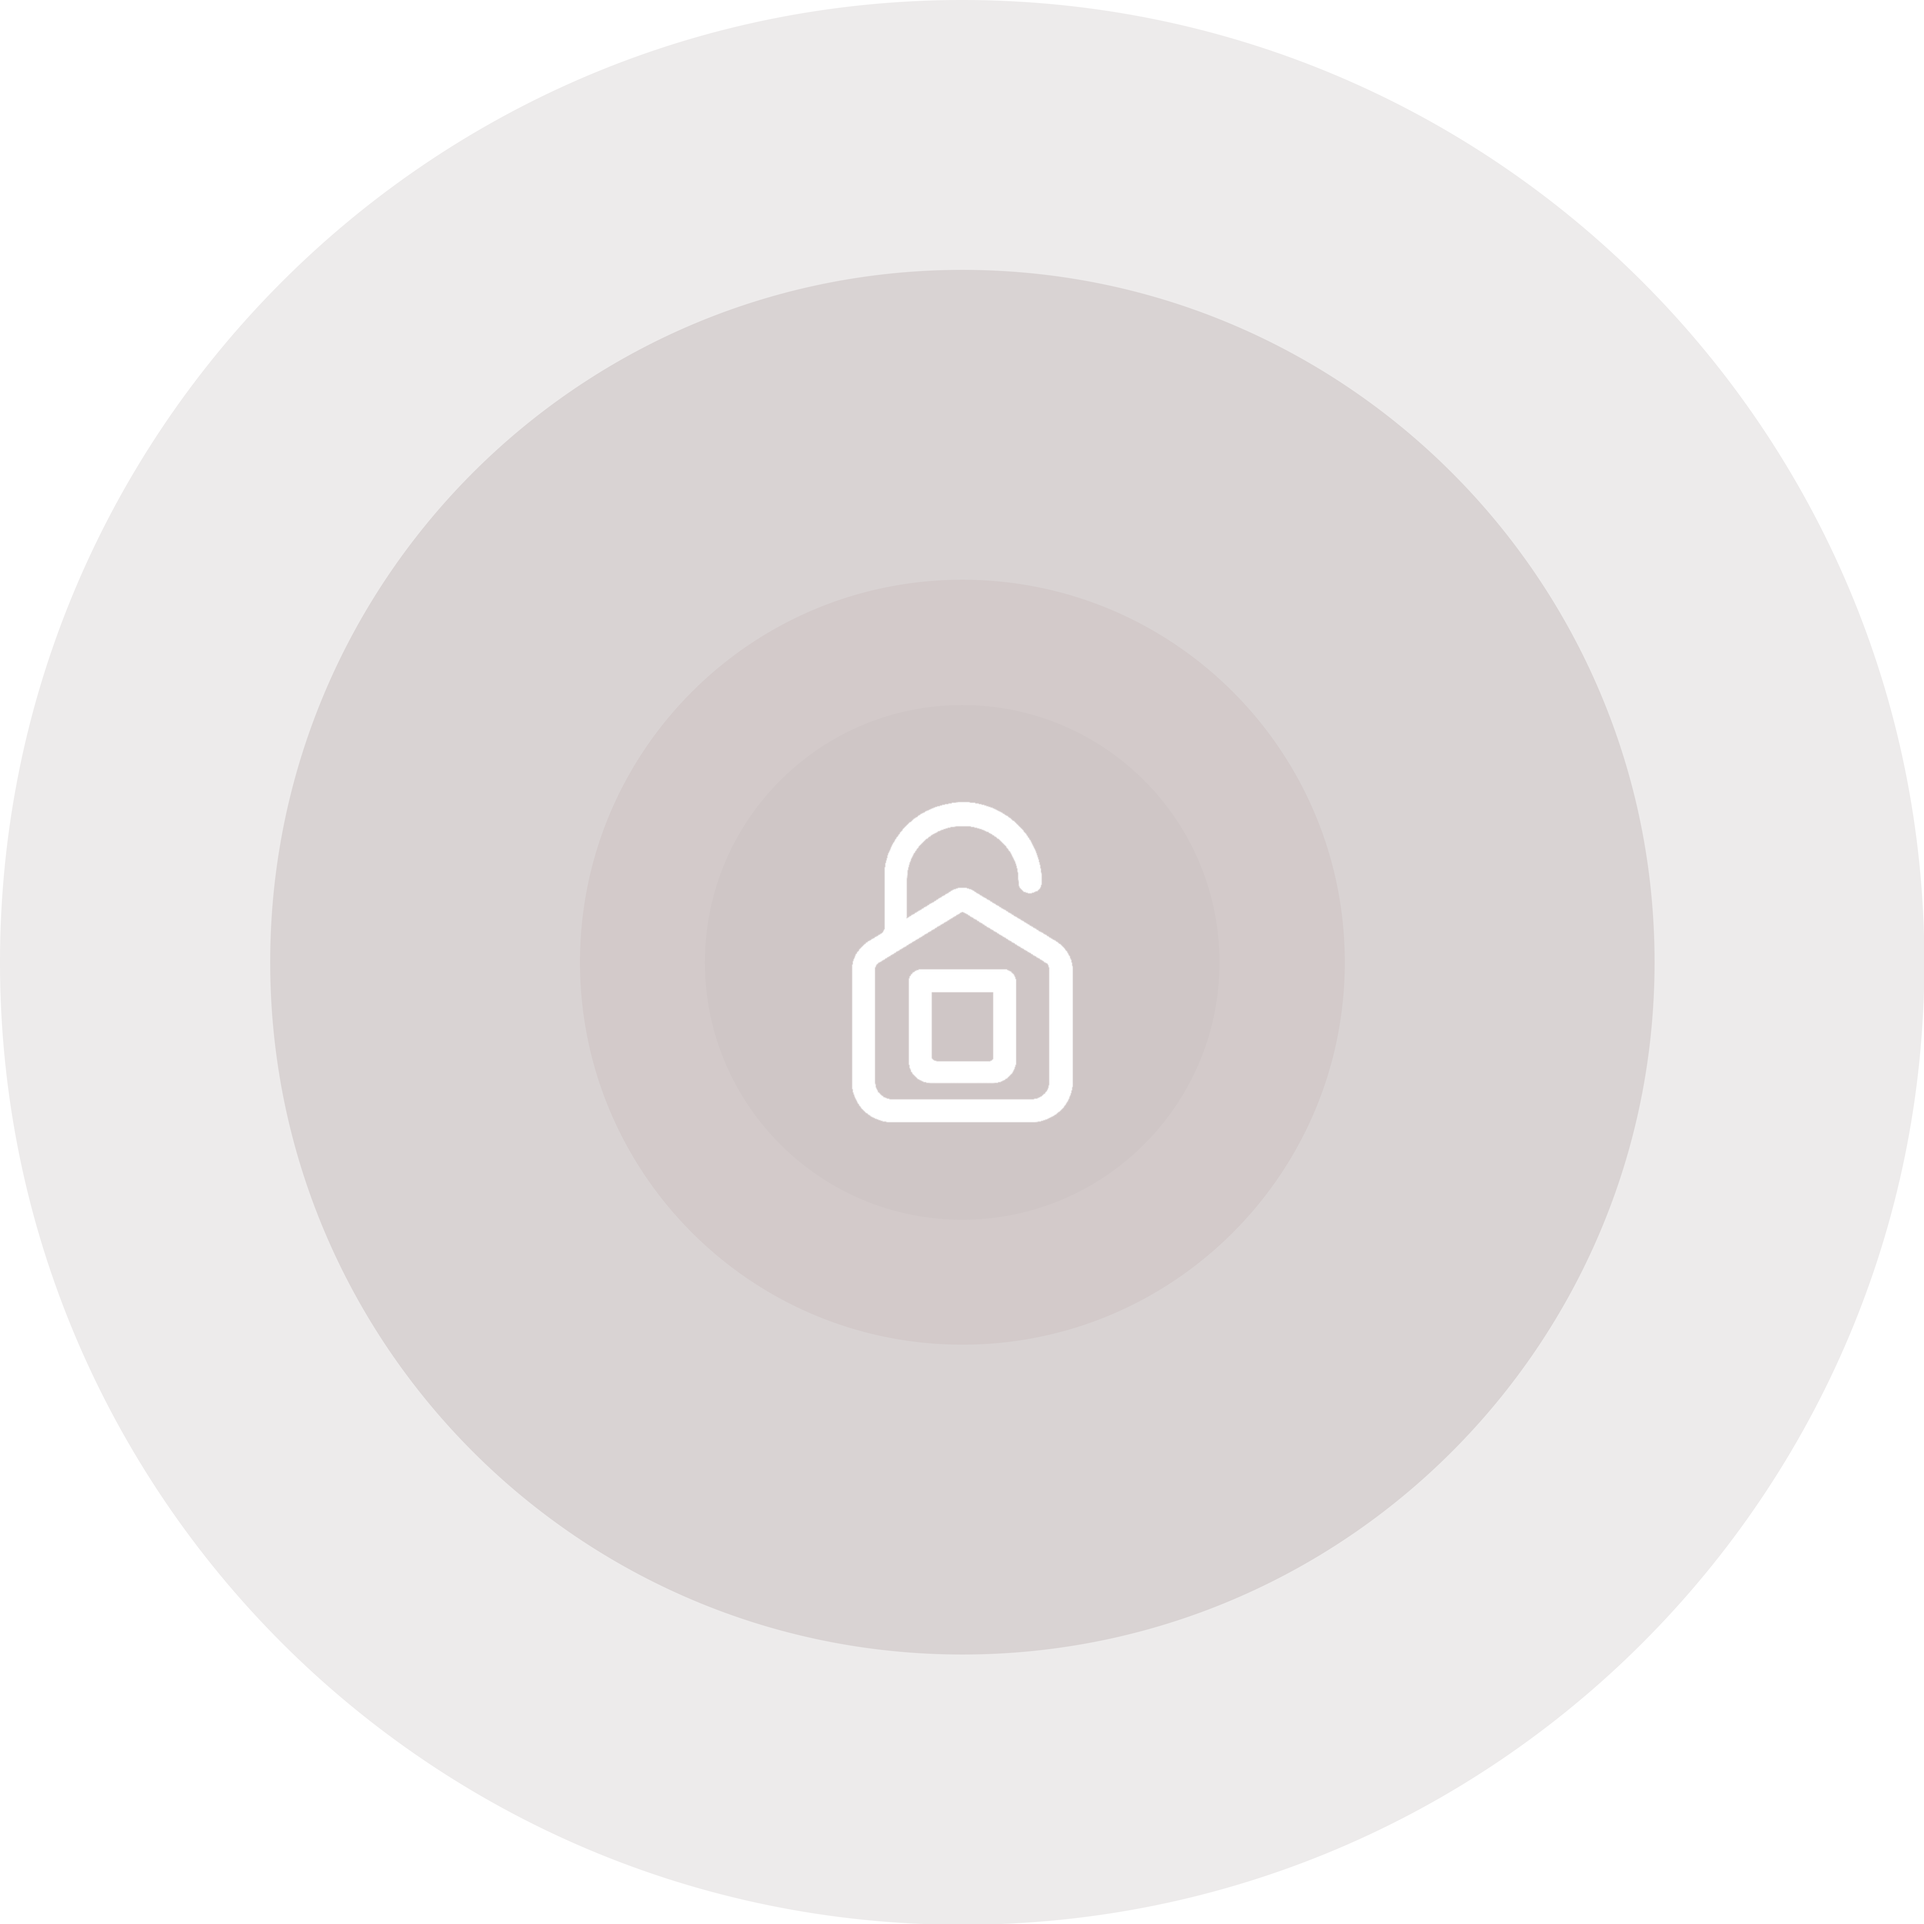
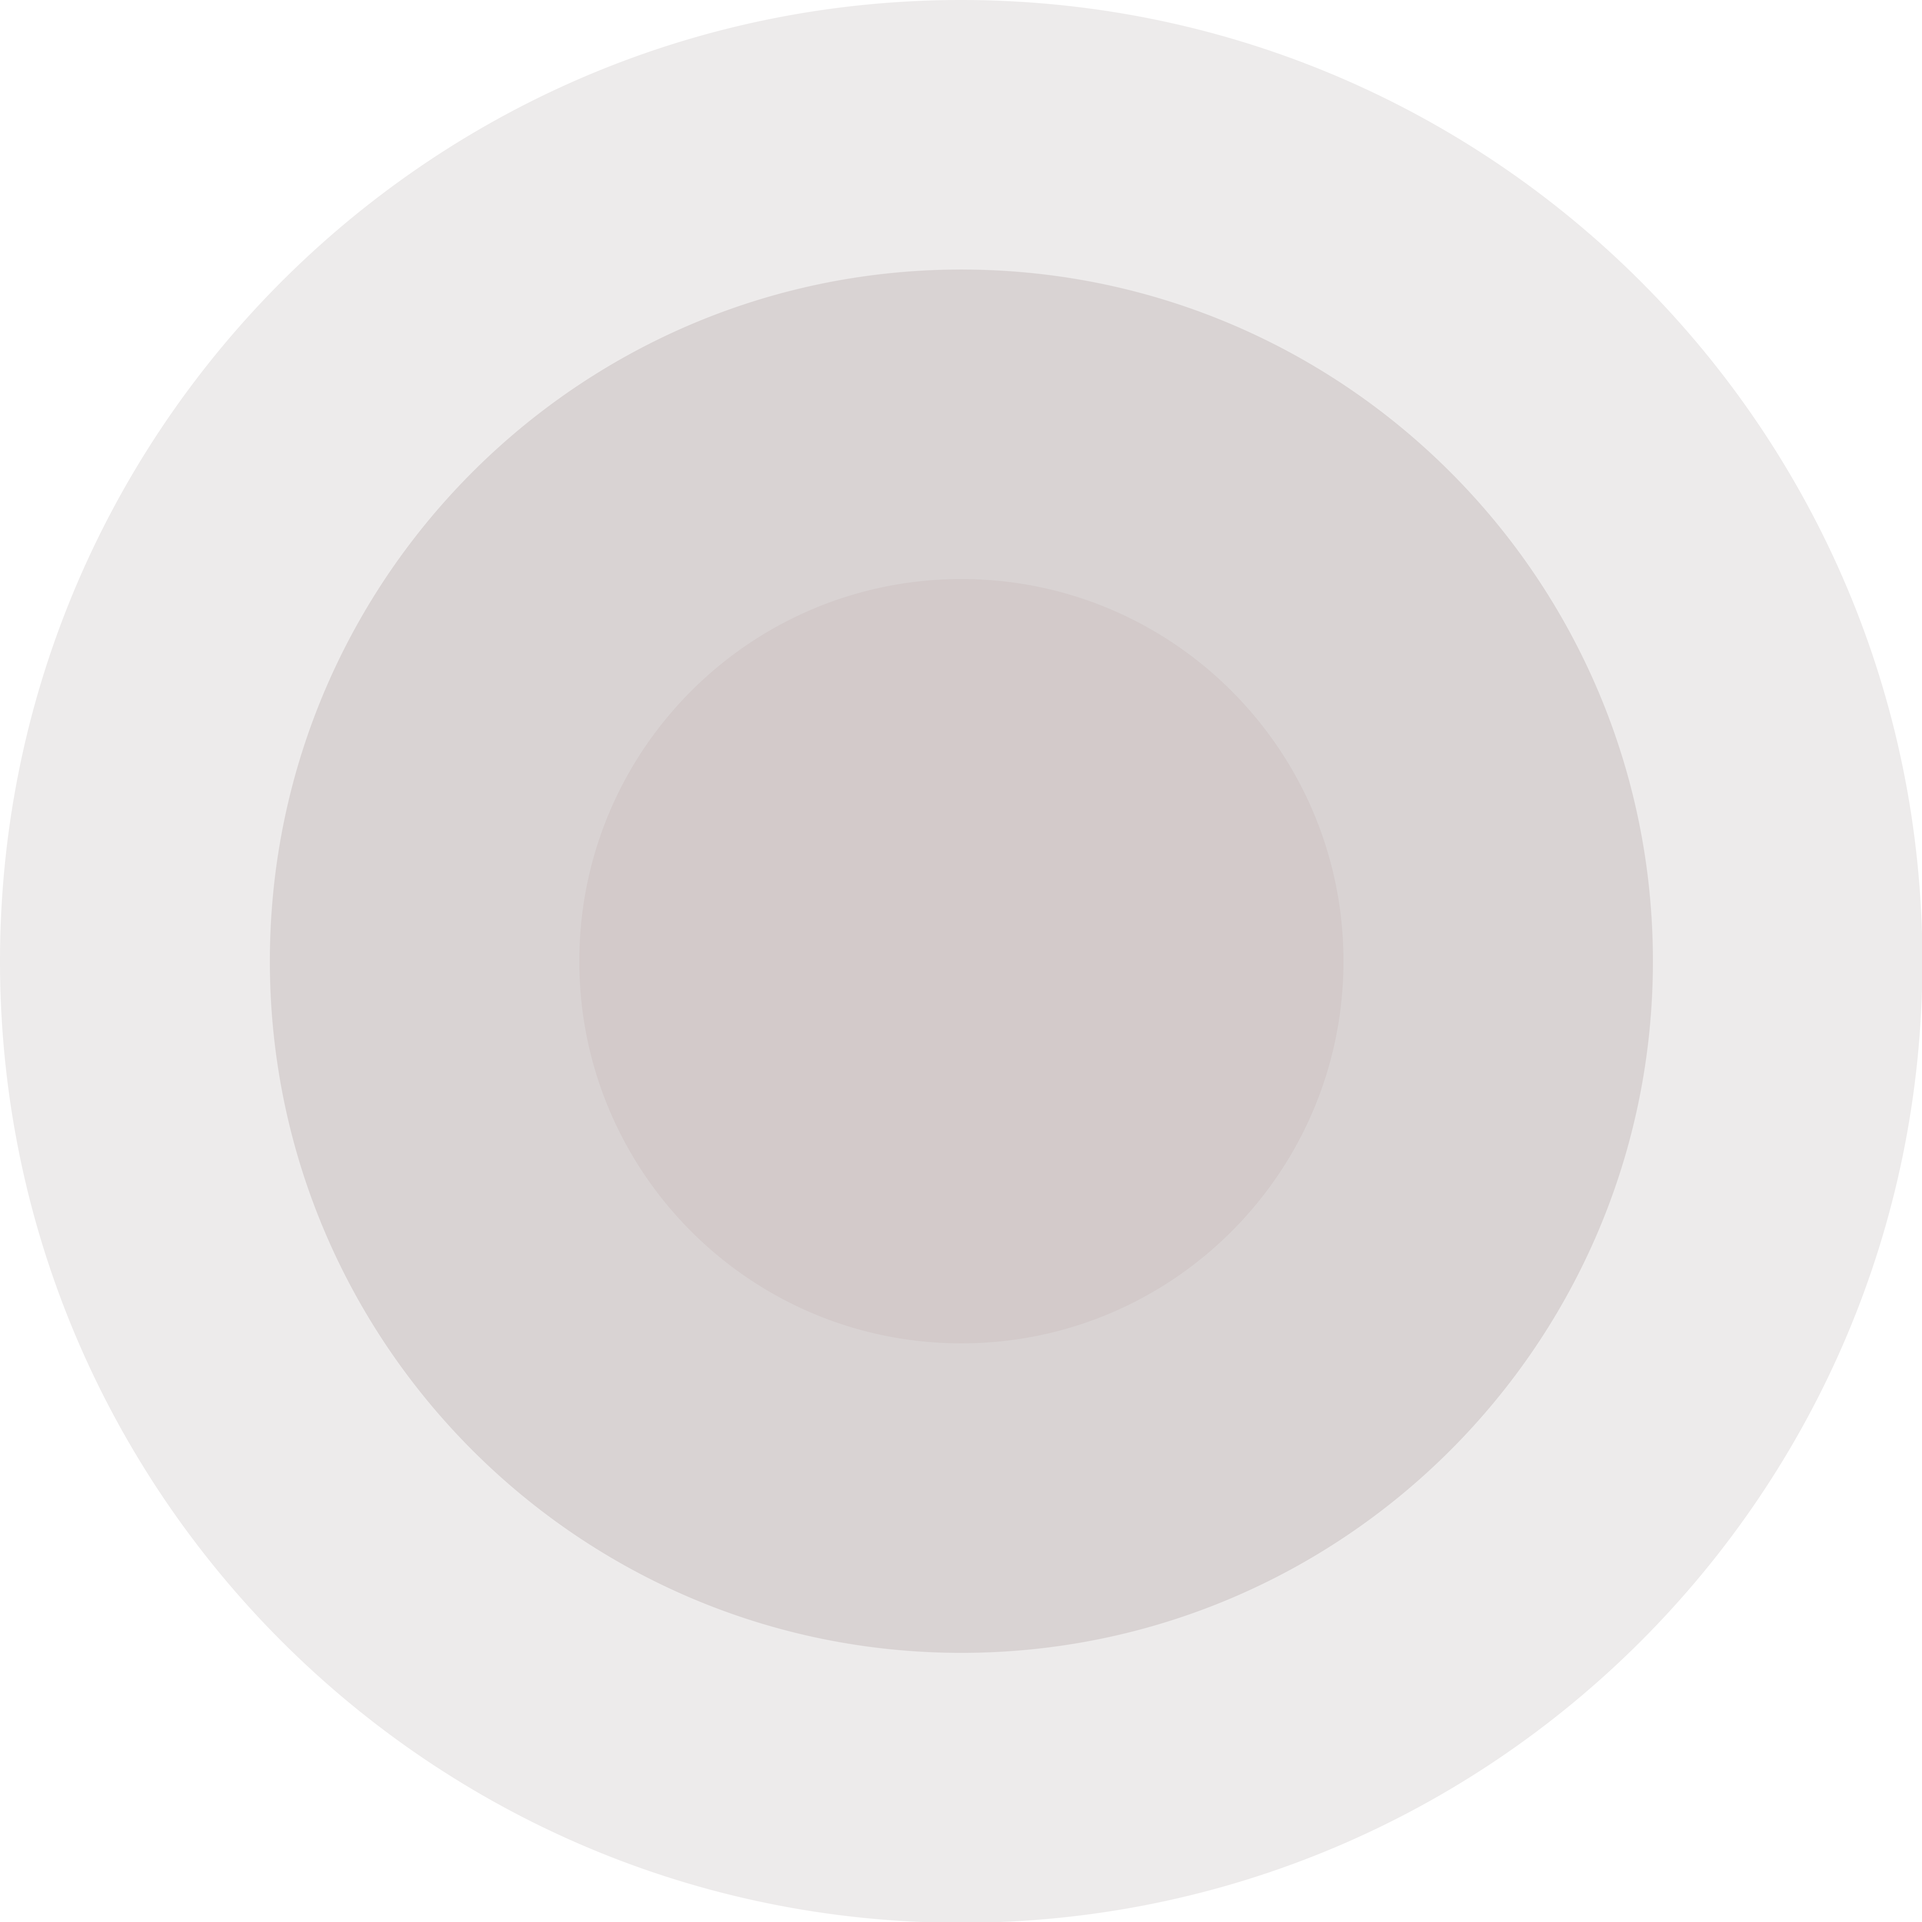
fix: marqueur double - extérieur fixe, intérieur zoom
- map-marker-lokroom-2.png: cercle extérieur FIXE, ne bouge jamais
- map-marker-lokroom interieur-2.png: grandit/rétréci au zoom
- Transition fluide sur l'intérieur uniquement

Changed region(s): [[0.4368, 0.4057, 0.5616, 0.5929]]

diff --git a/apps/web/src/components/Map.tsx b/apps/web/src/components/Map.tsx
@@ -508,7 +508,9 @@ export default function Map({
         map.setCenter(position);
 
         // Créer un overlay custom pour le marqueur
-        // Taille qui s'adapte au zoom pour couvrir toujours la même zone géographique
+        // Deux images superposées:
+        // - Extérieur (map-marker-lokroom-2.png): taille FIXE, ne bouge jamais
+        // - Intérieur (map-marker-lokroom interieur-2.png): grandit/rétréci au zoom
         const markerOverlay = new g.maps.OverlayView();
         const BASE_ZOOM = initialZoom;
         const BASE_SIZE = isMobile ? 150 : 250;
@@ -517,20 +519,35 @@ export default function Map({
           const div = document.createElement("div");
           div.style.position = "absolute";
           div.style.cursor = "default";
-          // Transition fluide pour le redimensionnement
-          div.style.transition = "transform 0.25s ease-out";
-          div.style.transformOrigin = "center center";
           div.style.width = BASE_SIZE + "px";
           div.style.height = BASE_SIZE + "px";
 
-          const img = document.createElement("img");
-          img.src = "/map-marker-lokroom-2.png";
-          img.style.width = "100%";
-          img.style.height = "100%";
-          img.style.objectFit = "contain";
+          // Image extérieure - FIXE, ne change jamais de taille
+          const imgOuter = document.createElement("img");
+          imgOuter.src = "/map-marker-lokroom-2.png";
+          imgOuter.style.position = "absolute";
+          imgOuter.style.width = "100%";
+          imgOuter.style.height = "100%";
+          imgOuter.style.objectFit = "contain";
+          imgOuter.style.top = "0";
+          imgOuter.style.left = "0";
 
-          div.appendChild(img);
+          // Image intérieure - grandit/rétréci au zoom
+          const imgInner = document.createElement("img");
+          imgInner.src = "/map-marker-lokroom interieur-2.png";
+          imgInner.style.position = "absolute";
+          imgInner.style.width = "100%";
+          imgInner.style.height = "100%";
+          imgInner.style.objectFit = "contain";
+          imgInner.style.top = "0";
+          imgInner.style.left = "0";
+          imgInner.style.transition = "transform 0.25s ease-out";
+          imgInner.style.transformOrigin = "center center";
+
+          div.appendChild(imgOuter);
+          div.appendChild(imgInner);
           (this as any).div = div;
+          (this as any).imgInner = imgInner;
 
           const panes = this.getPanes();
           if (panes) {
@@ -546,19 +563,23 @@ export default function Map({
           if (!pos) return;
 
           const div = (this as any).div;
+          const imgInner = (this as any).imgInner;
           if (div) {
-            const currentZoom = map.getZoom() || BASE_ZOOM;
-
-            // Calculer le scale pour que le marqueur couvre toujours la même zone
-            let scale = 1;
-            if (currentZoom > BASE_ZOOM) {
-              scale = Math.pow(2, currentZoom - BASE_ZOOM);
-            }
-
             const halfSize = BASE_SIZE / 2;
             div.style.left = (pos.x - halfSize) + "px";
             div.style.top = (pos.y - halfSize) + "px";
-            div.style.transform = `scale(${scale})`;
+
+            // Calculer le scale pour l'image intérieure
+            if (imgInner) {
+              const currentZoom = map.getZoom() || BASE_ZOOM;
+              let scale = 1;
+              if (currentZoom > BASE_ZOOM) {
+                scale = Math.pow(2, currentZoom - BASE_ZOOM);
+              } else if (currentZoom < BASE_ZOOM) {
+                scale = Math.pow(2, currentZoom - BASE_ZOOM);
+              }
+              imgInner.style.transform = `scale(${scale})`;
+            }
           }
         };
 
